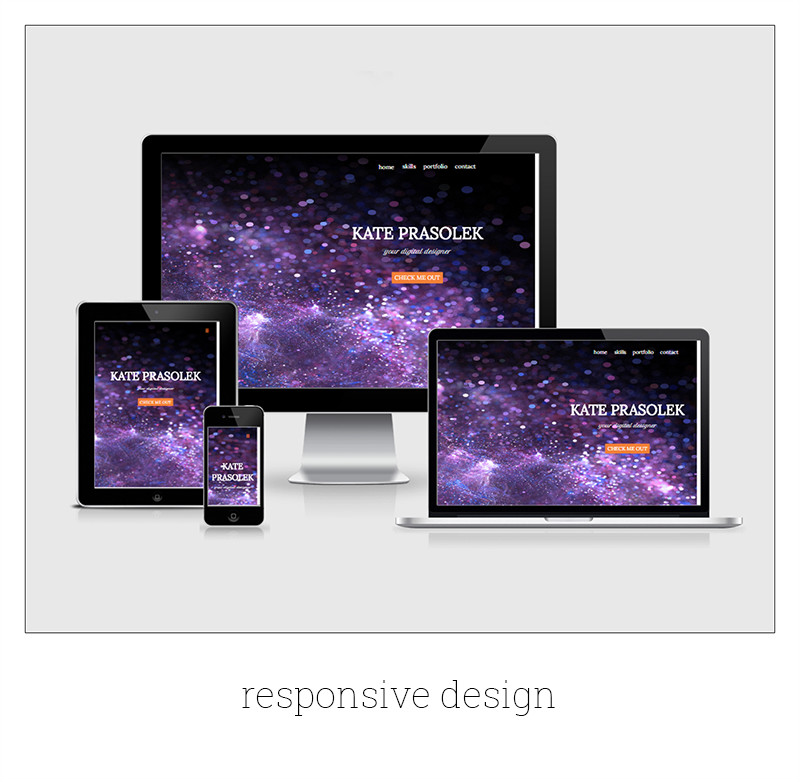
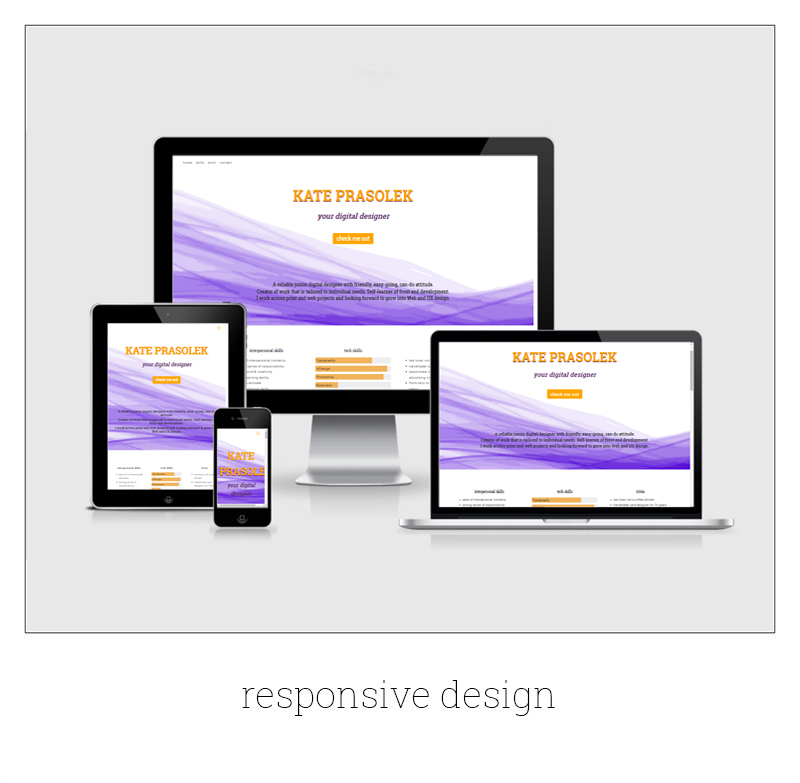
Update images with new background.

Changed region(s): [[0.0938, 0.1533, 0.9375, 0.705]]

diff --git a/index.html b/index.html
@@ -256,7 +256,7 @@
 		        		<div class="card">
 		        			<div id="wrapper">
 		        				<div id="inner1">
-		        					<img class="card-img-top img-fluid project" src="images/web_portfolio.png" alt="Card image cap">
+		        					<img class="card-img-top img-fluid project" src="images/web_portfolio.jpg" alt="Card image cap">
 		        				</div>
 		        				
 			        			<div class="card_info" id="inner2">
